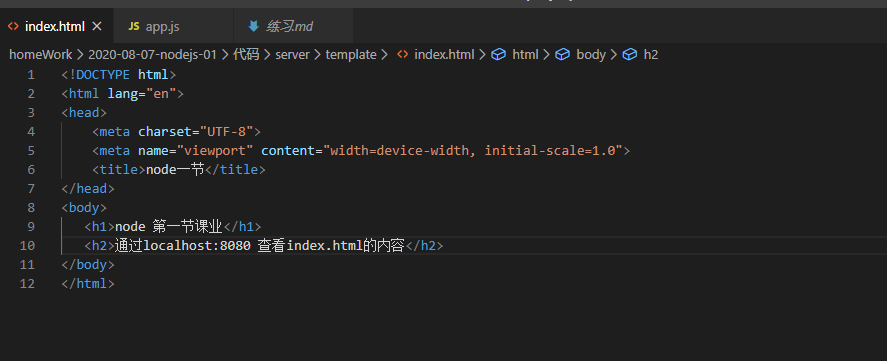
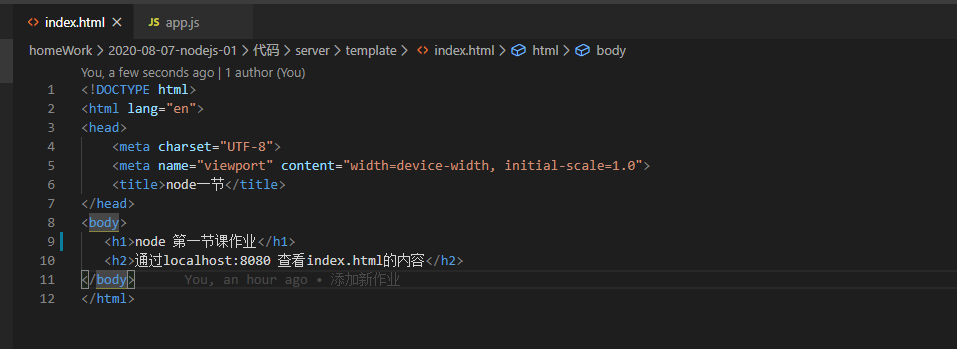
修改

diff --git a/2020-08-07-nodejs-01/代码/server/template/index.html b/2020-08-07-nodejs-01/代码/server/template/index.html
@@ -6,7 +6,7 @@
     <title>node一节</title>
 </head>
 <body>
-   <h1>node 第一节课业</h1>
+   <h1>node 第一节课作业</h1>
    <h2>通过localhost:8080 查看index.html的内容</h2> 
 </body>
 </html>
